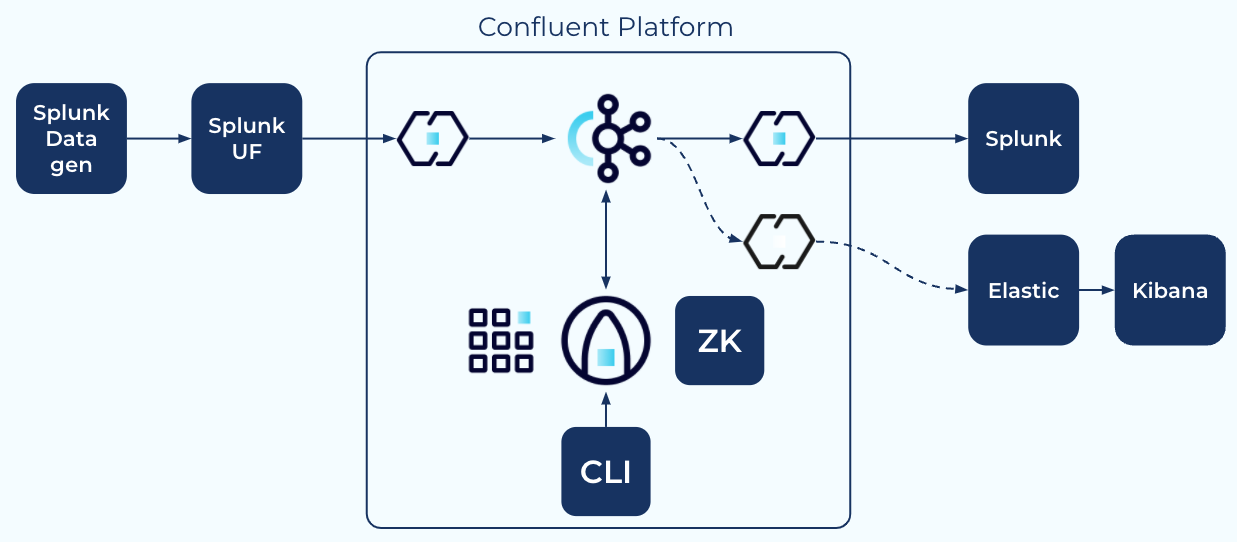
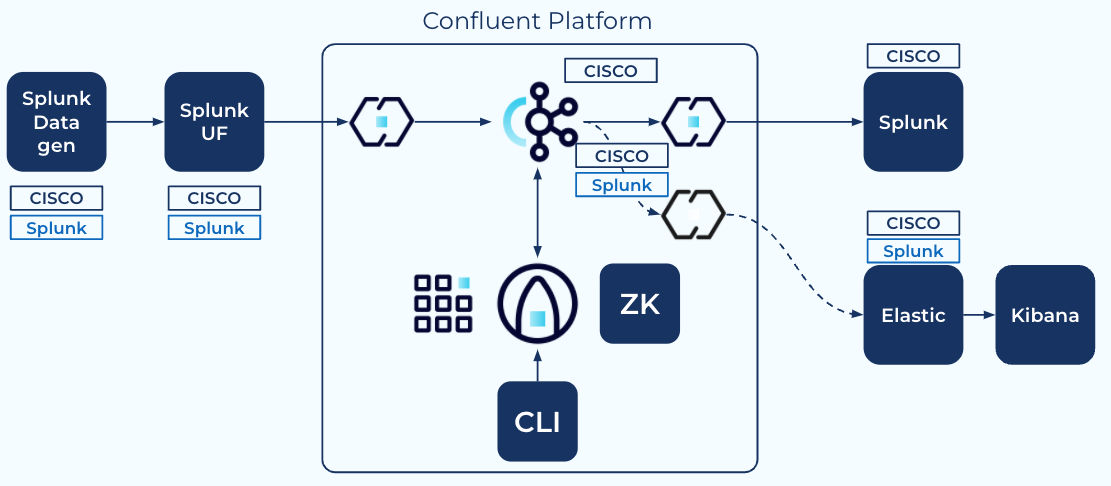
Updated stream definitions to separete cisco logs and splunkd logs.

Changed region(s): [[0.0, 0.0309, 0.8875, 0.9877], [0.7651, 0.4321, 1.0, 0.7716], [0.5509, 0.5247, 0.6121, 0.5556]]

diff --git a/README.md b/README.md
@@ -2,13 +2,15 @@
 
 ## Overview
 ![Overview](./assets/images/overview.png "Overview")
-ネットワーク機器のログをSplunkのUniversal Forwarderを利用してConfluentに転送し、ストリーム処理後にSplunkのHECに転送するサンドボックス環境。オリジナルはJohnny MirzaのSplunk Demoであり利用しているほぼ全てのリソースは彼の準備したもの。 (https://github.com/JohnnyMirza/confluent_splunk_demo) 本リポジトリはその内容を絞り、日本語化したもの。
+ネットワーク機器のログをSplunkのUniversal Forwarderを利用してConfluentに転送し、ストリーム処理後にSplunkのHECに転送するサンドボックス環境。Splunk Universal Forwarderから送られるログを、Confluent内で機器ログ (CISCO ASA) とUniversal Forwarder自身のログ (SPLUNKD) にストリーム処理で分類。ストリーム処理にはksqlDBを利用。
+
+オリジナルはJohnny MirzaのSplunk Demoであり利用しているほぼ全てのリソースは彼の準備したもの。 (https://github.com/JohnnyMirza/confluent_splunk_demo) 本リポジトリはその内容をカスタマイズし、日本語化したもの。
 
 ### 備考
 - 必要なConnectorは起動時に取得/設定される。しかしEnd-to-Endで繋がってはいない為中間処理は追加する必要がある。処理はksqlDBで記載する事を想定しているが必要条件ではない。
 - ネットワーク機器からのログはGeneratorを使い生成したもの。同じレコードセットが繰り返しGeneratorから送られる。
 - Splunkもコンテナ稼働しておりSink Connectorも定義済み。
-- おまけとしてElasticならびにKibanaも定義されており起動している。但しConnectorは未定義。Connectorは読み込まれておりksqlDBにて登録/接続は可能。 (後述)
+- ElasticならびにKibanaも定義されており起動している。但しConnectorは未定義。Connectorは読み込まれておりksqlDBにて登録/接続は可能。 (後述)
 - 機器からのログはCISCO ASAのログだが他のログに切り替えも可能。（e.g. Nginx) ログ内容のカスタマイズも可能。
 
 ## 手順
@@ -109,21 +111,24 @@ CREATE STREAM SPLUNK (
 KAFKA_TOPIC='splunk-s2s-events', VALUE_FORMAT='JSON');
 ```
 ### 2. StreamからCISCO ASAのログのみ抽出
-Streamからcisco:asaのみ指定して抽出（出力先はElastic）
+StreamからSplunkのログを抽出（出力先はElastic）
 ```sql
-CREATE STREAM CISCO_ASA as SELECT
+CREATE STREAM SPLUNK_LOGS
+AS SELECT
     `event`,
+    `host`,
     `source`,
     `sourcetype`,
     `index`
 FROM SPLUNK
-WHERE `sourcetype` = 'cisco:asa'
+WHERE SPLUNK.`sourcetype` = 'splunkd'
 EMIT CHANGES;
 ```
 ### 3. Streamから特定イベントのみ抽出
-Streamから特定イベントのみ抽出し、同時にTopicを生成。CISCO_ASAからクエリ抽出も可能だがAND条件のサンプルとしてSPLUNKから抽出。　（出力先はSplunk）
+Streamから機器のログを抽出　（出力先はSplunk）
 ```sql
-CREATE STREAM CISCO_ASA_FILTERED WITH (KAFKA_TOPIC='CISCO_ASA_FILTERED', PARTITIONS=1, REPLICAS=1) AS SELECT
+CREATE STREAM CISCO_ASA_FILTERED
+AS SELECT
     SPLUNK.`event` `event`,
     SPLUNK.`source` `source`,
     SPLUNK.`sourcetype` `sourcetype`,
@@ -134,11 +139,11 @@ EMIT CHANGES;
 ```
 
 ### 4. ElasticsearchのConnectorを登録
-3で作成したStream (`CISCO_ASA`) をElasticsearchに流すConnector。
+2及び3で作成したStream (`CISCO_ASA_FILTERED` と `SPLUNK_LOGS`) をElasticsearchに流すConnector。
 ```sql
 CREATE SINK CONNECTOR SINK_ELASTIC WITH (
     'connector.class' = 'io.confluent.connect.elasticsearch.ElasticsearchSinkConnector',
-    'topics' = 'CISCO_ASA',
+    'topics' = 'SPLUNK_LOGS, CISCO_ASA_FILTERED',
     'key.converter' = 'org.apache.kafka.connect.storage.StringConverter',
     'value.converter' = 'org.apache.kafka.connect.json.JsonConverter',
     'value.converter.schemas.enable' = 'false',
